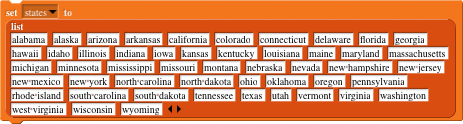
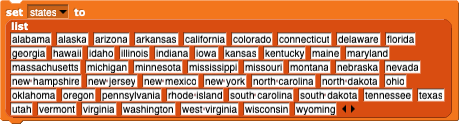
updated 'choosing some items from a list' in lab 5

diff --git a/cur/programming/lists/hof/choosing-some-items-from-a-list.html b/cur/programming/lists/hof/choosing-some-items-from-a-list.html
@@ -49,7 +49,7 @@ be empty for our function-input notation to work.)
   </p>
   Putting all these pieces together will give us the answer we want:<br>
   <img title="KEEP ITEMS SUCH THAT (&lt;...&gt;) FROM (STATES)" alt="KEEP ITEMS SUCH THAT (&lt;...&gt;) FROM (STATES)" src="/bjc-r/img/list/hof/geography.png" border="0"/>
-  <br>You can see from the "length: 4" in the result that there are four such states. The one you can't see in this picture is Ohio.
+  <br>You can see from the "length: 4" in the result that there are four such states.
   
 </p>
 <p><br>But if you're playing Geography, the question you really want answered is 
